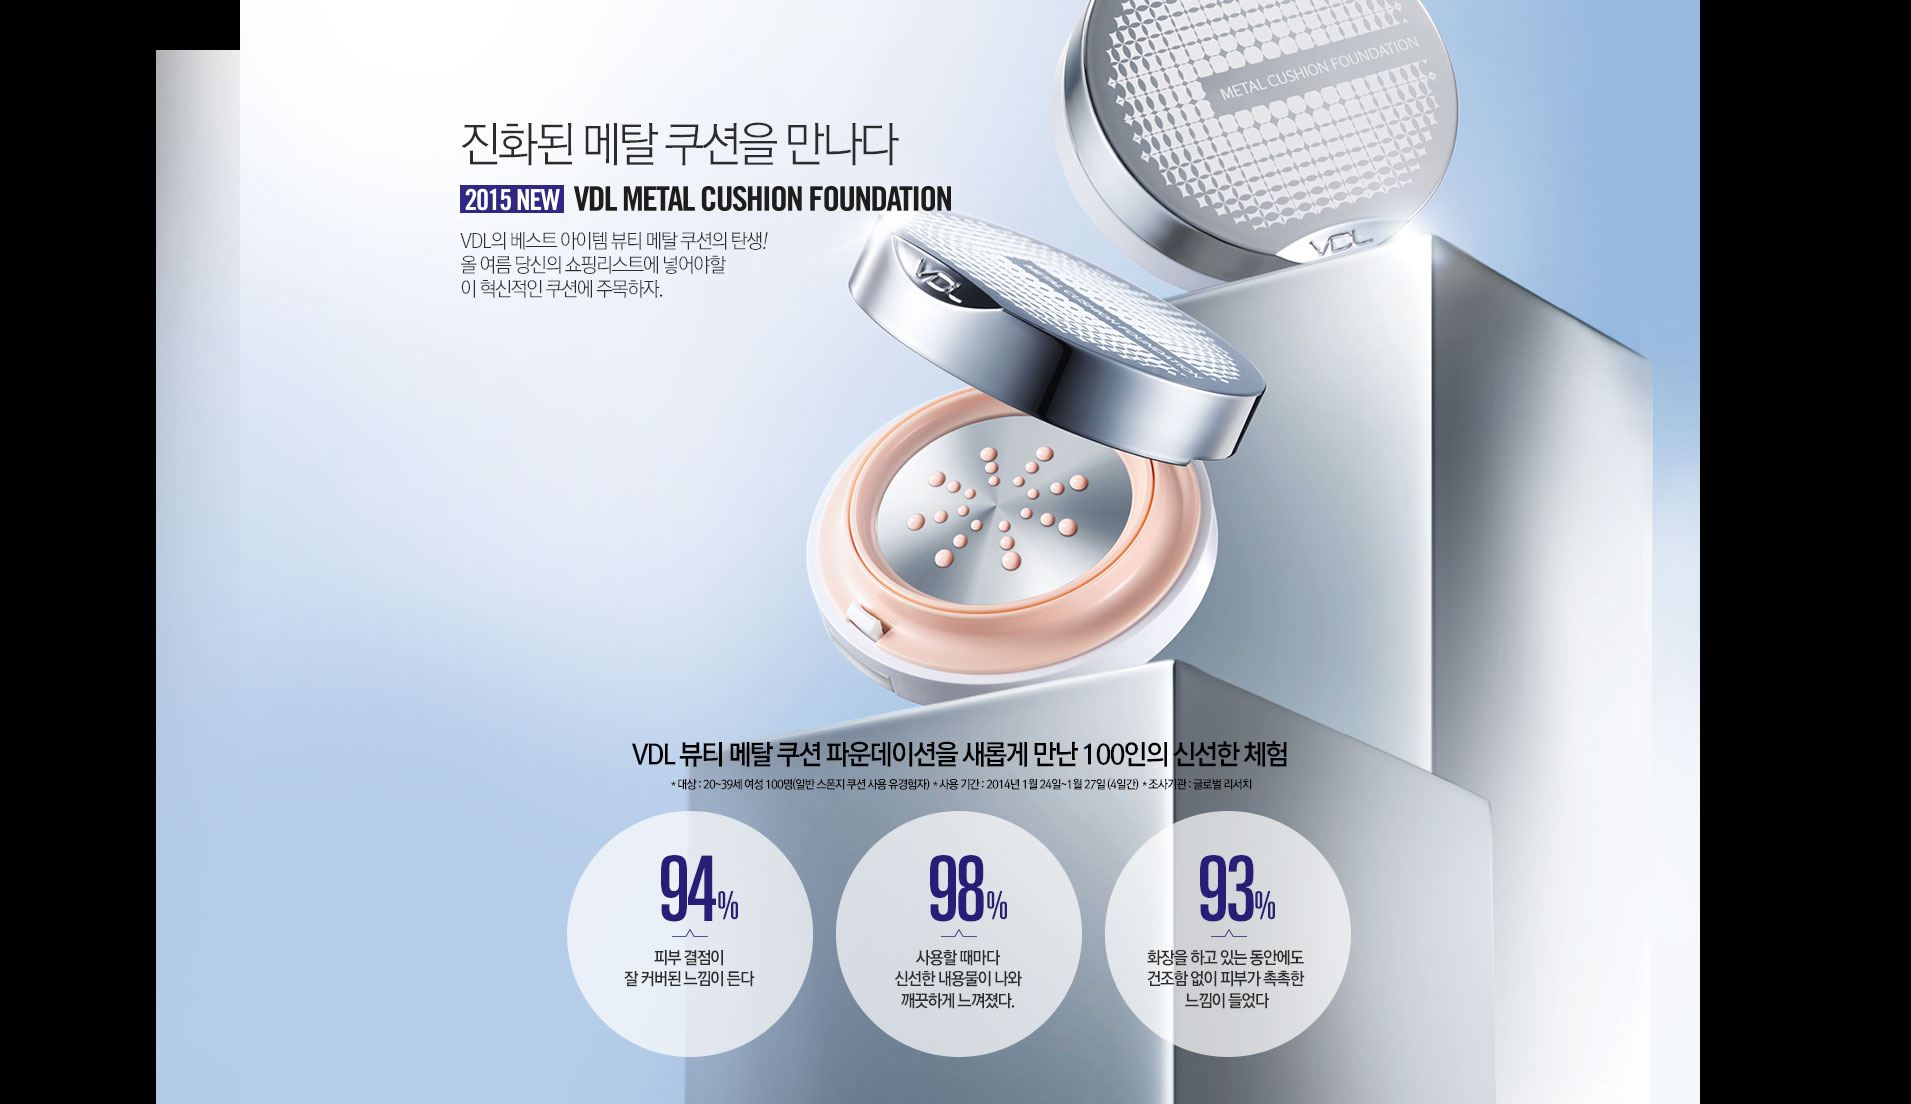
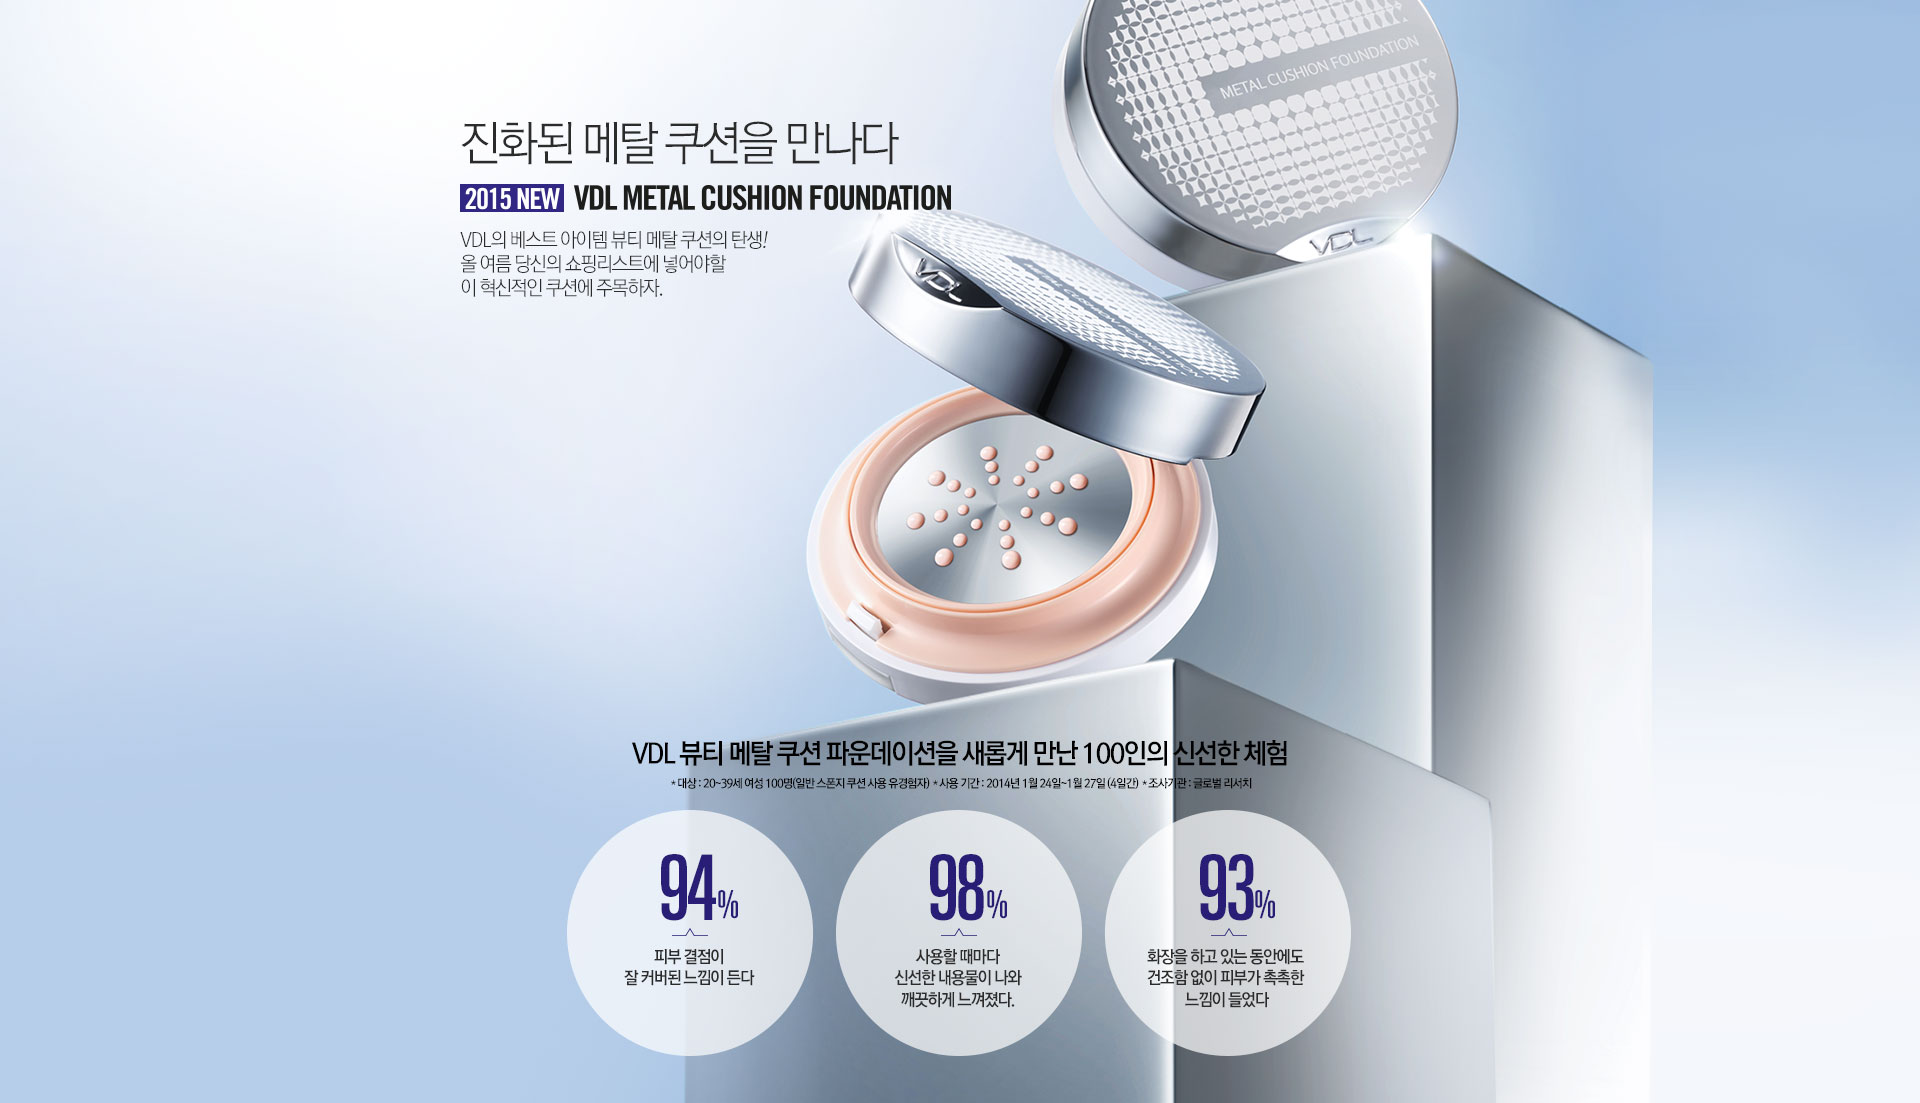
이미지 업데이트

diff --git a/PC/css/style.css b/PC/css/style.css
@@ -35,9 +35,8 @@
 	left : 0;
 	width : 100%;
 	height : 100%;
-	background : url("../images/area1_bg.jpg") repeat;
+	background : url("../images/bg_black.png") repeat;
 	overflow : hidden;
-	background:rgba(0, 0, 0, 0.2);
 	z-index : 10;
 }
 
@@ -113,7 +112,7 @@
 .contents_wrap .area1 .video_area .scroll_navi_area{
 	position:absolute;
 	z-index:40;
-	bottom:15%;
+	bottom:10%;
 	left:50%;
 	margin-left:-36px;
 	width:72px;
